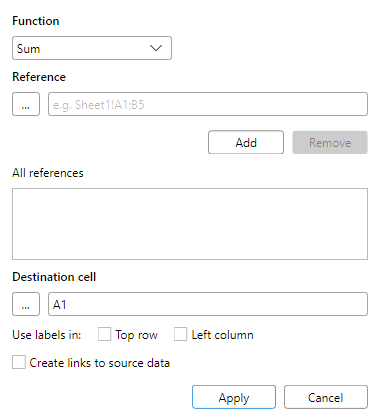
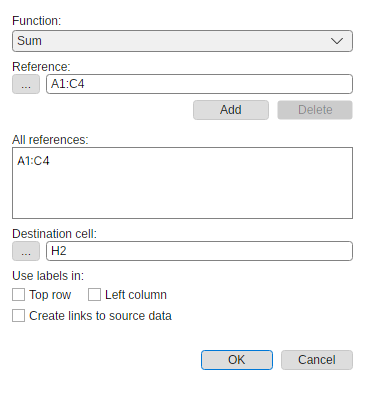
Promote Consolidate parity evidence

diff --git a/docs/parity/avalonia-wpf-cross-app-dashboard.md b/docs/parity/avalonia-wpf-cross-app-dashboard.md
@@ -8,9 +8,9 @@ Generated by `tools/Generate-CrossAppParityDashboard.ps1` from existing generate
 
 | App | Primary evidence | Current generated state | Next slice |
 |---|---|---|---|
-| FreeX | Functional matrix, classifier, dialog inventory, dialog visual evidence, command surface | 531 functional commands; 473 command inventory parity; 0 Avalonia-missing; 0 real classified binding gaps; 48 catalog-backed pseudo-gallery rows (34 conditional-format, 10 font/border, 4 accounting-symbol); 57/57 dialog routes captured on WPF and Avalonia; 94 paired screenshot surface ids, 0 Avalonia-only ids, 0 WPF-only ids; 0 scale-aware dimension mismatches; 0 unresolved high-delta visual review candidates at triage score >= 0.4 (highest 0.170675); 30 raw PNG pixel dimension mismatches, of which 30 normalize by capture DPI. These are coverage/triage metrics, not a visual-parity claim. | Command/dialog route coverage is complete for the generated inputs: all 48 pseudo-gallery rows are catalog-backed in classifier evidence (34 conditional-format rows over 38 runtime catalog items, 10 font/border rows, and 4 accounting-symbol rows), and dialog screenshot evidence has 94 paired WPF/Avalonia manifest surface ids with 0 Avalonia-only ids. This is coverage and size-comparability evidence, not visual parity. The paired screenshots retain 0 unresolved high-delta visual review candidates at triage score >= 0.4 (highest 0.170675); keep those candidates separate from 0 scale-aware dimension mismatch rows and 30 raw PNG pixel dimension mismatches. |
+| FreeX | Functional matrix, classifier, dialog inventory, dialog visual evidence, command surface | 531 functional commands; 473 command inventory parity; 0 Avalonia-missing; 0 real classified binding gaps; 48 catalog-backed pseudo-gallery rows (34 conditional-format, 10 font/border, 4 accounting-symbol); 57/57 dialog routes captured on WPF and Avalonia; 94 paired screenshot surface ids, 0 Avalonia-only ids, 0 WPF-only ids; 0 scale-aware dimension mismatches; 0 unresolved high-delta visual review candidates at triage score >= 0.4 (highest 0.170675); 29 raw PNG pixel dimension mismatches, of which 29 normalize by capture DPI. These are coverage/triage metrics, not a visual-parity claim. | Command/dialog route coverage is complete for the generated inputs: all 48 pseudo-gallery rows are catalog-backed in classifier evidence (34 conditional-format rows over 38 runtime catalog items, 10 font/border rows, and 4 accounting-symbol rows), and dialog screenshot evidence has 94 paired WPF/Avalonia manifest surface ids with 0 Avalonia-only ids. This is coverage and size-comparability evidence, not visual parity. The paired screenshots retain 0 unresolved high-delta visual review candidates at triage score >= 0.4 (highest 0.170675); keep those candidates separate from 0 scale-aware dimension mismatch rows and 29 raw PNG pixel dimension mismatches. |
 | FreeW | Generated command inventory | 870 commands; 451 shared-profile; 0 actionable WPF-missing; 0 actionable Avalonia-missing; 371 profile-shape-only; 43 command-id aliases; 5 platform-only; 0 deferred | Backstage print/export, WordArt/watermark, table/page-composition, shape/object, SmartArt polygon, and chart visual proof now have paired WPF/Avalonia renderer contracts plus no-Word real-capture smoke runs; chart proof also validates shared chart data signatures across hosts. All-up no-Word runner fallback drift is classified as runner evidence hygiene, and the standalone no-Word runner now writes a post-summary readiness manifest with comparable scenario IDs, candidate Word PNG baseline paths, remaining blocker IDs, and an explicit no-authoritative-Word-PNG-parity claim. Next FreeW evidence slices are the same runs with real Word PNG baselines on a Word-capable host and broader Word-authoritative drawing/object/chart/table comparisons. |
-| FreeP | Generated command/evidence inventory | 297 commands; 295 shared-profile; 0 actionable WPF-missing; 0 actionable Avalonia-missing; 2 platform-only; 98 workflow evidence rows | Layout picker, table picker, rich inline table/text editing, shared visible list galleries, picture-bullet import/rendering plus picker/media authoring, slide-pane reorder, bottom New Slide, notes-page preview/PDF rendering, fixed-layout PDF connector, image, triangle-arrowhead, rotation, ellipse, picture-frame/crop/alpha/color-effect, shape-opacity export, and PDF visual-baseline readiness with WPF/Avalonia page-raster artifact patterns plus paired diff-report targets, export/backstage package-handoff, presenter recording backend contracts plus capture-adapter readiness and paired backend injection, captured PPTX media and generated WebVTT caption artifact authoring, focused PowerPoint-native caption package retention including external caption relationship metadata, native media/caption sidecar package depth, and caption relationship-id collision remapping, shared chart number/date label rendering plus edge/mixed manual-layout bounds, surface grid plus projected contour/wireframe/3-D surface geometry plus 3-D pie lower-depth rendering, stock OHLC capture-readiness metadata, and PowerPoint/WPF/Avalonia chart baseline capture readiness, SmartArt basic hierarchy plus vertical bullet list plus basic cycle plus radial cycle plus gear cycle plus text cycle plus basic, continuous block, segmented, chevron, alternating, funnel, circle, and arrow-ribbon process plus basic block list plus vertical box list plus stacked list plus basic pyramid plus bounded pictureCaptionList live layout plus basic/radial/stacked Venn and target-list relationship layouts plus shared outline reorder/promote/demote editing, data-part authoring, text-pane/cache-regeneration authoring, and matching thin WPF/Avalonia text-pane host controls with bounded keyboard routes, header/footer placeholder creation plus inherited layout/master geometry, title-slide suppression, fixed/auto date options, shared OMML fraction-type variants, matrix spacing/base alignment, delimiter grow semantics, accent/bar render-plan coverage, manual line breaks, boxed equation-array alignment points, transparent phantom spacing classes, pre-sub/superscript layout, matrix empty-cell placeholder handling, and group-character vertical justification, ink execution with repeated custom-show route retention, modern comments/review with shared mention candidate and insertion planning, accessibility/proofing workflow depth, animation-pane row/playback workflow evidence, paired real Windows microphone narration handoff, paired Windows camera handoff readiness, paired default no-COM camera handoff/package-target readiness without encoded-payload or PowerPoint-baseline claims, deterministic encoded camera media payload artifacts through host-specific PPTX package paths, and paired OS-backed unavailable-hardware/no-device recording evidence now have WPF/Avalonia no-COM evidence paths. Continue workflow-depth slices in live capture on real microphone/camera hardware, actual local default no-COM camera video encoding that produces non-empty mp4 payloads, calibrated chart-family acceptance thresholds and remaining type-specific decisions beyond the current PowerPoint baseline-depth/type/label captures, broader SmartArt layout families, remaining OMML constructs/alignment semantics and PowerPoint-authoritative math visual-baseline coverage, broader real-deck PowerPoint-native media/caption baselines, actual PowerPoint PDF/PNG capture and calibrated PDF visual diffs on a COM-capable host, and PowerPoint-authoritative animation-pane visual/playback baselines. |
+| FreeP | Generated command/evidence inventory | 342 commands; 340 shared-profile; 0 actionable WPF-missing; 0 actionable Avalonia-missing; 2 platform-only; 98 workflow evidence rows | Layout picker, table picker, rich inline table/text editing, shared visible list galleries, picture-bullet import/rendering plus picker/media authoring, slide-pane reorder, bottom New Slide, notes-page preview/PDF rendering, fixed-layout PDF connector, image, triangle-arrowhead, rotation, ellipse, picture-frame/crop/alpha/color-effect, shape-opacity export, and PDF visual-baseline readiness with WPF/Avalonia page-raster artifact patterns plus paired diff-report targets, export/backstage package-handoff, presenter recording backend contracts plus capture-adapter readiness and paired backend injection, captured PPTX media and generated WebVTT caption artifact authoring, focused PowerPoint-native caption package retention including external caption relationship metadata, native media/caption sidecar package depth, and caption relationship-id collision remapping, shared chart number/date label rendering plus edge/mixed manual-layout bounds, surface grid plus projected contour/wireframe/3-D surface geometry plus 3-D pie lower-depth rendering, stock OHLC capture-readiness metadata, and PowerPoint/WPF/Avalonia chart baseline capture readiness, SmartArt basic hierarchy plus vertical bullet list plus basic cycle plus radial cycle plus gear cycle plus text cycle plus basic, continuous block, segmented, chevron, alternating, funnel, circle, and arrow-ribbon process plus basic block list plus vertical box list plus stacked list plus basic pyramid plus bounded pictureCaptionList live layout plus basic/radial/stacked Venn and target-list relationship layouts plus shared outline reorder/promote/demote editing, data-part authoring, text-pane/cache-regeneration authoring, and matching thin WPF/Avalonia text-pane host controls with bounded keyboard routes, header/footer placeholder creation plus inherited layout/master geometry, title-slide suppression, fixed/auto date options, shared OMML fraction-type variants, matrix spacing/base alignment, delimiter grow semantics, accent/bar render-plan coverage, manual line breaks, boxed equation-array alignment points, transparent phantom spacing classes, pre-sub/superscript layout, matrix empty-cell placeholder handling, and group-character vertical justification, ink execution with repeated custom-show route retention, modern comments/review with shared mention candidate and insertion planning, accessibility/proofing workflow depth, animation-pane row/playback workflow evidence, paired real Windows microphone narration handoff, paired Windows camera handoff readiness, paired default no-COM camera handoff/package-target readiness without encoded-payload or PowerPoint-baseline claims, deterministic encoded camera media payload artifacts through host-specific PPTX package paths, and paired OS-backed unavailable-hardware/no-device recording evidence now have WPF/Avalonia no-COM evidence paths. Continue workflow-depth slices in live capture on real microphone/camera hardware, actual local default no-COM camera video encoding that produces non-empty mp4 payloads, calibrated chart-family acceptance thresholds and remaining type-specific decisions beyond the current PowerPoint baseline-depth/type/label captures, broader SmartArt layout families, remaining OMML constructs/alignment semantics and PowerPoint-authoritative math visual-baseline coverage, broader real-deck PowerPoint-native media/caption baselines, actual PowerPoint PDF/PNG capture and calibrated PDF visual diffs on a COM-capable host, and PowerPoint-authoritative animation-pane visual/playback baselines. |
 
 ## FreeX Visual Review Queue
 

diff --git a/docs/parity/dialog-visual-evidence-summary.md b/docs/parity/dialog-visual-evidence-summary.md
@@ -32,8 +32,8 @@ Sources:
 | Avalonia-manifest-only screenshot surface ids needing WPF manifest pair | 0 |
 | Nonblank PNG check failures | 0 |
 | Paired dimension mismatches (scale-aware logical units) | 0 |
-| Raw PNG pixel dimension mismatches | 30 |
-| Raw PNG mismatches normalized by capture DPI | 30 |
+| Raw PNG pixel dimension mismatches | 29 |
+| Raw PNG mismatches normalized by capture DPI | 29 |
 | Paired expected-size evidence mismatches | 0 |
 | Stale promoted expected-size evidence | 0 |
 | Policy-accepted native/control differences | 0 |
@@ -65,13 +65,13 @@ Outliers are ranked by a deterministic triage score: normalized 32x32 ARGB sampl
 | dialog.PrintPreview | 1120x700 | 1120x700 | 1120x700 px @ 96 DPI vs 1120x700 px @ 96 DPI |  |  | 0.171 | 0.036 | 0.001 | 0.133 |
 | dialog.Subtotal | 380x390 | 380x390 | 380x390 px @ 96 DPI vs 380x390 px @ 96 DPI |  |  | 0.142 | 0.026 | 0.011 | 0.105 |
 | dialog.Options.QuickAccessToolbar | 744.301x521 | 744x521 | 744x521 px @ 96 DPI vs 744x521 px @ 96 DPI |  |  | 0.132 | 0.027 | 0.004 | 0.100 |
-| dialog.Consolidate | 380x420 | 380x420 | 570x630 px @ 144 DPI vs 380x420 px @ 96 DPI |  |  | 0.126 | 0.032 | 0.011 | 0.083 |
 | dialog.PivotTableOptions.Data | 520x500 | 520x500 | 520x500 px @ 96 DPI vs 520x500 px @ 96 DPI |  |  | 0.125 | 0.035 | 0.015 | 0.074 |
 | dialog.SelectionPane | 520x440 | 520x440 | 520x440 px @ 96 DPI vs 520x440 px @ 96 DPI |  |  | 0.122 | 0.019 | 0.006 | 0.097 |
 | dialog.Options.Advanced | 744x521 | 744x521 | 744x521 px @ 96 DPI vs 744x521 px @ 96 DPI |  |  | 0.122 | 0.031 | 0.008 | 0.083 |
 | dialog.Options.Proofing | 744.301x521 | 744x521 | 744x521 px @ 96 DPI vs 744x521 px @ 96 DPI |  |  | 0.119 | 0.026 | 0.004 | 0.088 |
 | dialog.PageSetup.Sheet | 600x560 | 600x560 | 600x560 px @ 96 DPI vs 600x560 px @ 96 DPI |  |  | 0.117 | 0.035 | 0.008 | 0.073 |
 | dialog.PivotTableOptions.Display | 520x500 | 520x500 | 520x500 px @ 96 DPI vs 520x500 px @ 96 DPI |  |  | 0.116 | 0.037 | 0.014 | 0.065 |
+| dialog.Options | 744x521 | 744x521 | 744x521 px @ 96 DPI vs 744x521 px @ 96 DPI |  |  | 0.111 | 0.026 | 0.007 | 0.078 |
 
 ## Scale-Aware Dimension Mismatch Details
 
@@ -98,7 +98,7 @@ These rows have a DPI-normalized checked-in PNG size that disagrees with the dia
 | dialog.ChangeChartType | dialog.ChangeChartType.png | 640x390 | 960x585 px @ 144 DPI | True | dialog.ChangeChartType.png | 640x390 | 640x390 px @ 96 DPI | True | True | 0.070 |
 | dialog.ConditionalFormatManage | dialog.ConditionalFormatManage.png | 560x420 | 840x630 px @ 144 DPI | True | dialog.ConditionalFormatManage.png | 560x420 | 560x420 px @ 96 DPI | True | True | 0.074 |
 | dialog.ConditionalFormatNewRule | dialog.ConditionalFormatNewRule.png | 634.256x334 | 634x334 px @ 96 DPI | True | dialog.ConditionalFormatNewRule.png | 634x334 | 634x334 px @ 96 DPI | True | True | 0.046 |
-| dialog.Consolidate | dialog.Consolidate.png | 380x420 | 570x630 px @ 144 DPI | True | dialog.Consolidate.png | 380x420 | 380x420 px @ 96 DPI | True | True | 0.126 |
+| dialog.Consolidate | dialog.Consolidate.png | 380x420 | 380x420 px @ 96 DPI | True | dialog.Consolidate.png | 380x420 | 380x420 px @ 96 DPI | True | True | 0.031 |
 | dialog.CreateTable | dialog.CreateTable.png | 360x190 | 540x285 px @ 144 DPI | True | dialog.CreateTable.png | 360x190 | 360x190 px @ 96 DPI | True | True | 0.086 |
 | dialog.CustomViews | dialog.CustomViews.png | 640x360 | 960x540 px @ 144 DPI | True | dialog.CustomViews.png | 640x360 | 640x360 px @ 96 DPI | True | True | 0.058 |
 | dialog.DataTable | dialog.DataTable.png | 360x210 | 540x315 px @ 144 DPI | True | dialog.DataTable.png | 360x210 | 360x210 px @ 96 DPI | True | True | 0.068 |
